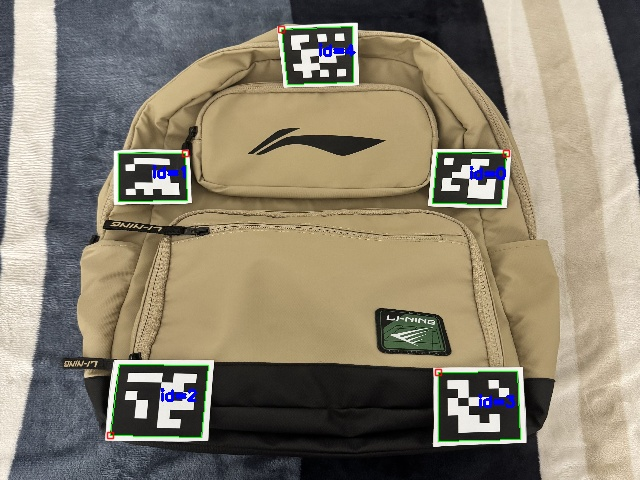
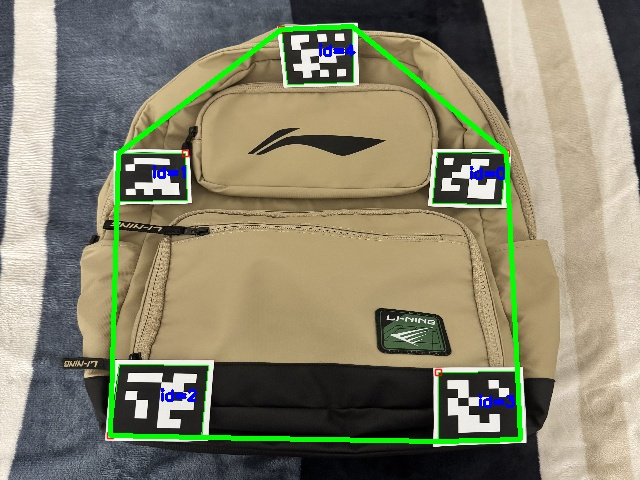
make changes

diff --git a/app.py b/app.py
@@ -2,9 +2,7 @@ import cv2
 import numpy as np
 import os
 import glob
-from flask import Flask, render_template, url_for, abort
-
-# Flask app setup and folder configuration
+from flask import Flask, render_template, abort
 
 # Initialize the Flask app
 app = Flask(__name__)
@@ -13,7 +11,7 @@ app = Flask(__name__)
 DATASET_DIR = 'dataset'
 
 # Folder that holds the ArUco images for Part 4
-ARUCO_DATASET_DIR = 'dataset_aruco' # Folder for part 4
+ARUCO_DATASET_DIR = 'dataset_aruco'  
 
 # Folder where all processed images will be saved and served by Flask
 OUTPUT_DIR = os.path.join('static', 'output')
@@ -22,17 +20,15 @@ os.makedirs(OUTPUT_DIR, exist_ok=True)
 
 # Processing pipeline for Parts 1–3 (single image)
 def process_and_save_image(filename):
-    
     input_path = os.path.join(DATASET_DIR, filename)
     if not os.path.exists(input_path):
         # If the requested input image does not exist, stop here
         return None
-    
+
     # Base name used for all output image filenames
     output_name_base = os.path.splitext(filename)[0]
-    
+
     # Define all the files we're going to create
-    # Each key corresponds to one visualization we generate
     output_paths = {
         "original": os.path.join(OUTPUT_DIR, f"{output_name_base}_original.jpg"),
         "magnitude": os.path.join(OUTPUT_DIR, f"{output_name_base}_magnitude.jpg"),
@@ -42,38 +38,30 @@ def process_and_save_image(filename):
         "corners": os.path.join(OUTPUT_DIR, f"{output_name_base}_corners.jpg"),
         "boundary": os.path.join(OUTPUT_DIR, f"{output_name_base}_boundary.jpg"),
     }
-    
+
     # If the last file exists, assume everything for this image is already done
     if os.path.exists(output_paths["boundary"]):
         return output_name_base
-        
+
     # Read the image from disk
     frame = cv2.imread(input_path)
     if frame is None:
-        # Reading failed for some reason (corrupt file, etc.)
         return None
 
     # Preprocessing: resize + convert to grayscale + blur
-
-    # Resize so all images are the same size (helps with consistent display)
     h, w = 360, 480
     frame_small = cv2.resize(frame, (w, h))
 
-    # Convert to grayscale for gradient and edge operations
     gray = cv2.cvtColor(frame_small, cv2.COLOR_BGR2GRAY)
-
-    # Apply Gaussian blur to reduce noise before edge detection
-    blur = cv2.GaussianBlur(gray, (5, 5), 0) # Blur to reduce noise
+    blur = cv2.GaussianBlur(gray, (5, 5), 0)
 
     # Save the resized original image
     cv2.imwrite(output_paths["original"], frame_small)
 
     # Gradient computation: Sobel operators in x and y
-
     sobelx = cv2.Sobel(blur, cv2.CV_64F, 1, 0, ksize=5)
     sobely = cv2.Sobel(blur, cv2.CV_64F, 0, 1, ksize=5)
-    
-    # Magnitude and angle of the gradient
+
     magnitude = cv2.magnitude(sobelx, sobely)
     angle = cv2.phase(sobelx, sobely)
 
@@ -82,13 +70,14 @@ def process_and_save_image(filename):
 
     # Convert to 8-bit images so they can be saved and visualized
     mag_display = cv2.convertScaleAbs(magnitude)
-    angle_display = cv2.normalize(angle, None, 0, 255, cv2.NORM_MINMAX, cv2.CV_8U)
+    angle_display = cv2.normalize(angle, None, 0, 255,
+                                  cv2.NORM_MINMAX, cv2.CV_8U)
     log_display = cv2.convertScaleAbs(log)
-    
+
     cv2.imwrite(output_paths["magnitude"], mag_display)
     cv2.imwrite(output_paths["angle"], angle_display)
     cv2.imwrite(output_paths["log"], log_display)
-    
+
     # Canny Edge Detection
     canny_edges = cv2.Canny(blur, 100, 200)
     cv2.imwrite(output_paths["edges"], canny_edges)
@@ -96,118 +85,96 @@ def process_and_save_image(filename):
     # Harris Corner Detection
     gray_float = np.float32(gray)
     dst = cv2.cornerHarris(gray_float, 2, 3, 0.04)
-
-    # Dilate result for better visualization of corners
     dst = cv2.dilate(dst, None)
-    
-    # Copy original image and mark detected corners in red
-    corner_image = frame_small.copy()
-    corner_image[dst > 0.01 * dst.max()] = [0, 0, 255] # Draw red dots
-    cv2.imwrite(output_paths["corners"], corner_image)
-    
-    # Boundary extraction via contours on the Canny edges
-    
-    contours, hierarchy = cv2.findContours(canny_edges, cv2.RETR_EXTERNAL, cv2.CHAIN_APPROX_SIMPLE)
-    
-    boundary_image = frame_small.copy()
-    
-    if contours:
-        # Find and draw only the biggest contour (largest object boundary)
-        largest_contour = max(contours, key=cv2.contourArea)
-        cv2.drawContours(boundary_image, [largest_contour], -1, (0, 255, 0), 3) 
 
-    # Save the final boundary visualization
+    corner_image = frame_small.copy()
+    corner_image[dst > 0.01 * dst.max()] = [0, 0, 255]
+    cv2.imwrite(output_paths["corners"], corner_image)
+
+    # Boundary extraction via contours on the Canny edges
+    contours, hierarchy = cv2.findContours(
+        canny_edges, cv2.RETR_EXTERNAL, cv2.CHAIN_APPROX_SIMPLE
+    )
+
+    boundary_image = frame_small.copy()
+
+    if contours:
+        largest_contour = max(contours, key=cv2.contourArea)
+        cv2.drawContours(boundary_image, [largest_contour], -1, (0, 255, 0), 3)
+
     cv2.imwrite(output_paths["boundary"], boundary_image)
 
-    # Return the base name so templates can construct proper filenames
     return output_name_base
 
 
-# Processing pipeline for Part 4 (ArUco markers)
-
+# Processing pipeline for Part 4 (ArUco markers) — fixed
 def process_and_save_aruco(filename):
     input_path = os.path.join(ARUCO_DATASET_DIR, filename)
     if not os.path.exists(input_path):
         # If the ArUco image does not exist in the dataset, stop here
         return None
-    
+
     # Add "_aruco" to filename to avoid clashes with regular outputs
     output_name_base = os.path.splitext(filename)[0] + "_aruco"
-    
+
     # We keep an original and a segmented (with hull) version
     output_paths = {
         "original": os.path.join(OUTPUT_DIR, f"{output_name_base}_original.jpg"),
         "segmented": os.path.join(OUTPUT_DIR, f"{output_name_base}_segmented.jpg"),
     }
-    
-    # If we've already created the segmented version, no need to recompute
-    if os.path.exists(output_paths["segmented"]):
-        return output_name_base
-        
+
+    # IMPORTANT: always recompute (no early return / caching)
     frame = cv2.imread(input_path)
     if frame is None:
         return None
-    
+
     # Resize for consistent display size
     frame = cv2.resize(frame, (640, 480))
     cv2.imwrite(output_paths["original"], frame)
-    
-    # ArUco detection setup (OpenCV 4.7+ style)
 
+    # ArUco detection setup (OpenCV 4.7+ style)
     aruco_dict = cv2.aruco.getPredefinedDictionary(cv2.aruco.DICT_6X6_250)
     parameters = cv2.aruco.DetectorParameters()
     detector = cv2.aruco.ArucoDetector(aruco_dict, parameters)
-    
+
     # corners: list of marker corner points
     # ids:     corresponding marker IDs
-    # rejected: candidate markers that did not pass detection
     corners, ids, rejected = detector.detectMarkers(frame)
-    
+
     segmented_image = frame.copy()
-    
+
     if ids is not None and len(ids) > 0:
-        # Draw all detected markers
+        # Draw all detected markers (white boxes + IDs)
         cv2.aruco.drawDetectedMarkers(segmented_image, corners, ids)
 
-        # Gather all marker corners into one big array
-        all_marker_corners = np.concatenate(corners)
+        # Flatten: list of (1, 4, 2) -> (N*4, 2)
+        all_marker_corners = np.concatenate(
+            [c[0] for c in corners], axis=0
+        ).astype(np.float32)
 
-        # Check if all_marker_corners is not empty and has correct shape
-        if all_marker_corners is not None and len(all_marker_corners) > 0:
-            all_marker_corners = np.array(all_marker_corners, dtype=np.float32)
-            print(f"all_marker_corners value: {all_marker_corners}, shape: {all_marker_corners.shape}, dtype: {all_marker_corners.dtype}")
-            # Robust check for correct shape and type
-            if (
-                all_marker_corners is not None
-                and isinstance(all_marker_corners, np.ndarray)
-                and all_marker_corners.size > 0
-                and all_marker_corners.ndim == 2
-                and all_marker_corners.shape[1] == 2
-            ):
-                try:
-                    hull = cv2.convexHull(all_marker_corners)
-                    # Draw the convex hull boundary in green
-                    cv2.drawContours(segmented_image, [hull], -1, (0, 255, 0), 3)
-                except cv2.error as e:
-                    print(f"OpenCV error in convexHull: {e}")
-                    hull = None
-            else:
-                print("Invalid or empty marker corners for convexHull:", all_marker_corners)
-        else:
-            print("No marker corners found, skipping convexHull.")
+        # Only compute hull if we have at least 3 points
+        if all_marker_corners.shape[0] >= 3:
+            hull = cv2.convexHull(all_marker_corners)  # (H, 1, 2) or (H, 2)
+
+            # Draw a single green polygon that connects the markers
+            cv2.polylines(
+                segmented_image,
+                [hull.astype(int)],
+                isClosed=True,
+                color=(0, 255, 0),
+                thickness=3,
+            )
 
     # Save the segmented ArUco visualization
     cv2.imwrite(output_paths["segmented"], segmented_image)
-    
+
     return output_name_base
 
 
 # Flask routes for web interface
-
 @app.route('/')
 def index():
-    """Home page for Parts 1-3: lists all images in the dataset folder."""
-    # Collect all .jpg/.png images from DATASET_DIR
+    """Home page for Parts 1–3: lists all images in the dataset folder."""
     image_paths = glob.glob(os.path.join(DATASET_DIR, '*.[jp][pn]g'))
     image_filenames = [os.path.basename(p) for p in image_paths]
     return render_template('index.html', filenames=image_filenames)
@@ -215,18 +182,16 @@ def index():
 
 @app.route('/view/<filename>')
 def view_image(filename):
-    """Results page for Parts 1-3: shows processed outputs for one image."""
-    # Run processing for this specific image on-demand
+    """Results page for Parts 1–3: shows processed outputs for one image."""
     output_name = process_and_save_image(filename)
     if output_name is None:
-        # If the image doesn't exist or failed to load, return 404
         return abort(404, "Image not found in dataset.")
     return render_template('result.html', output_name=output_name)
 
 
 @app.route('/aruco')
 def index_aruco():
-    # Collect all .jpg/.png images from ARUCO_DATASET_DIR
+    """Index page for Part 4: lists all ArUco images."""
     image_paths = glob.glob(os.path.join(ARUCO_DATASET_DIR, '*.[jp][pn]g'))
     image_filenames = [os.path.basename(p) for p in image_paths]
     return render_template('aruco_index.html', filenames=image_filenames)
@@ -234,14 +199,13 @@ def index_aruco():
 
 @app.route('/view_aruco/<filename>')
 def view_aruco(filename):
-    # Run ArUco processing on-demand
+    """Results page for Part 4: shows original + segmented ArUco output."""
     output_name = process_and_save_aruco(filename)
     if output_name is None:
-        # If the ArUco file is missing, show 404
         return abort(404, "ArUco image not found in dataset.")
     return render_template('aruco_result.html', output_name=output_name)
 
+
 # Run the Flask development server
 if __name__ == '__main__':
-    # run the app
     app.run(debug=True)
